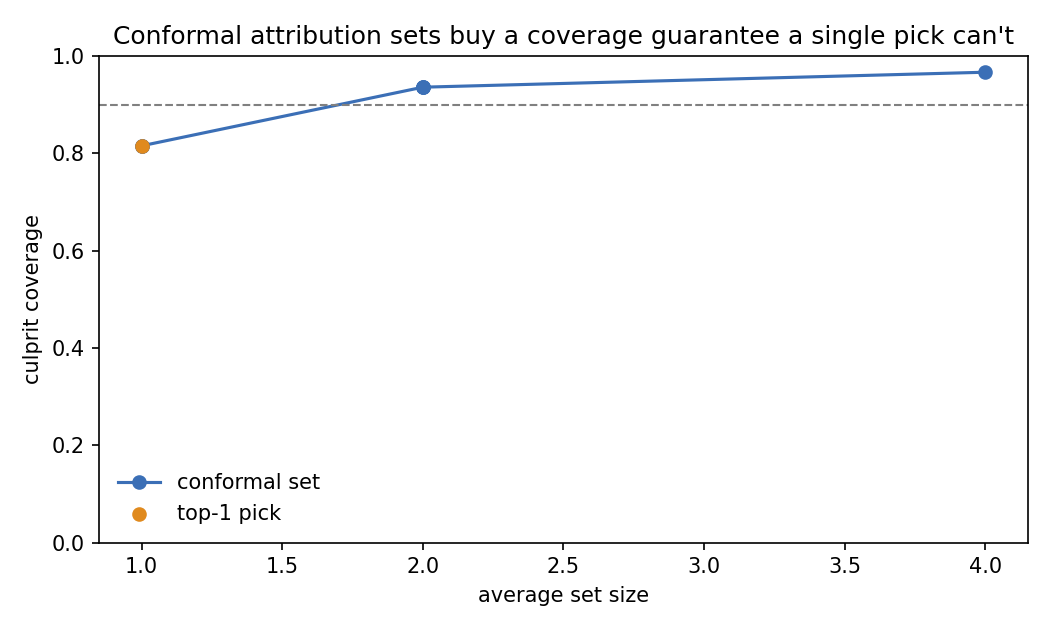
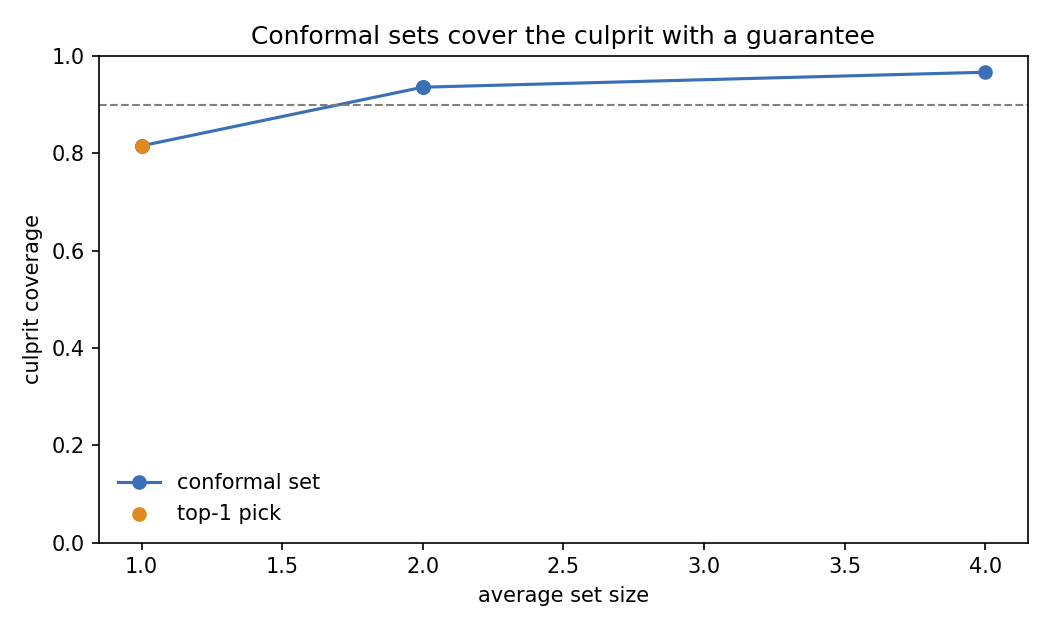
clearer conformal figure title

Changed region(s): [[0.0914, 0.0302, 0.9752, 0.0905]]

diff --git a/scripts/run_conformal.py b/scripts/run_conformal.py
@@ -78,7 +78,7 @@ def main():
     ax.axhline(0.9, ls="--", color="grey", lw=1)
     ax.set_xlabel("average set size")
     ax.set_ylabel("culprit coverage")
-    ax.set_title("Conformal attribution sets buy a coverage guarantee a single pick can't")
+    ax.set_title("Conformal sets cover the culprit with a guarantee")
     ax.set_ylim(0, 1)
     ax.legend(frameon=False)
     fig.tight_layout()
